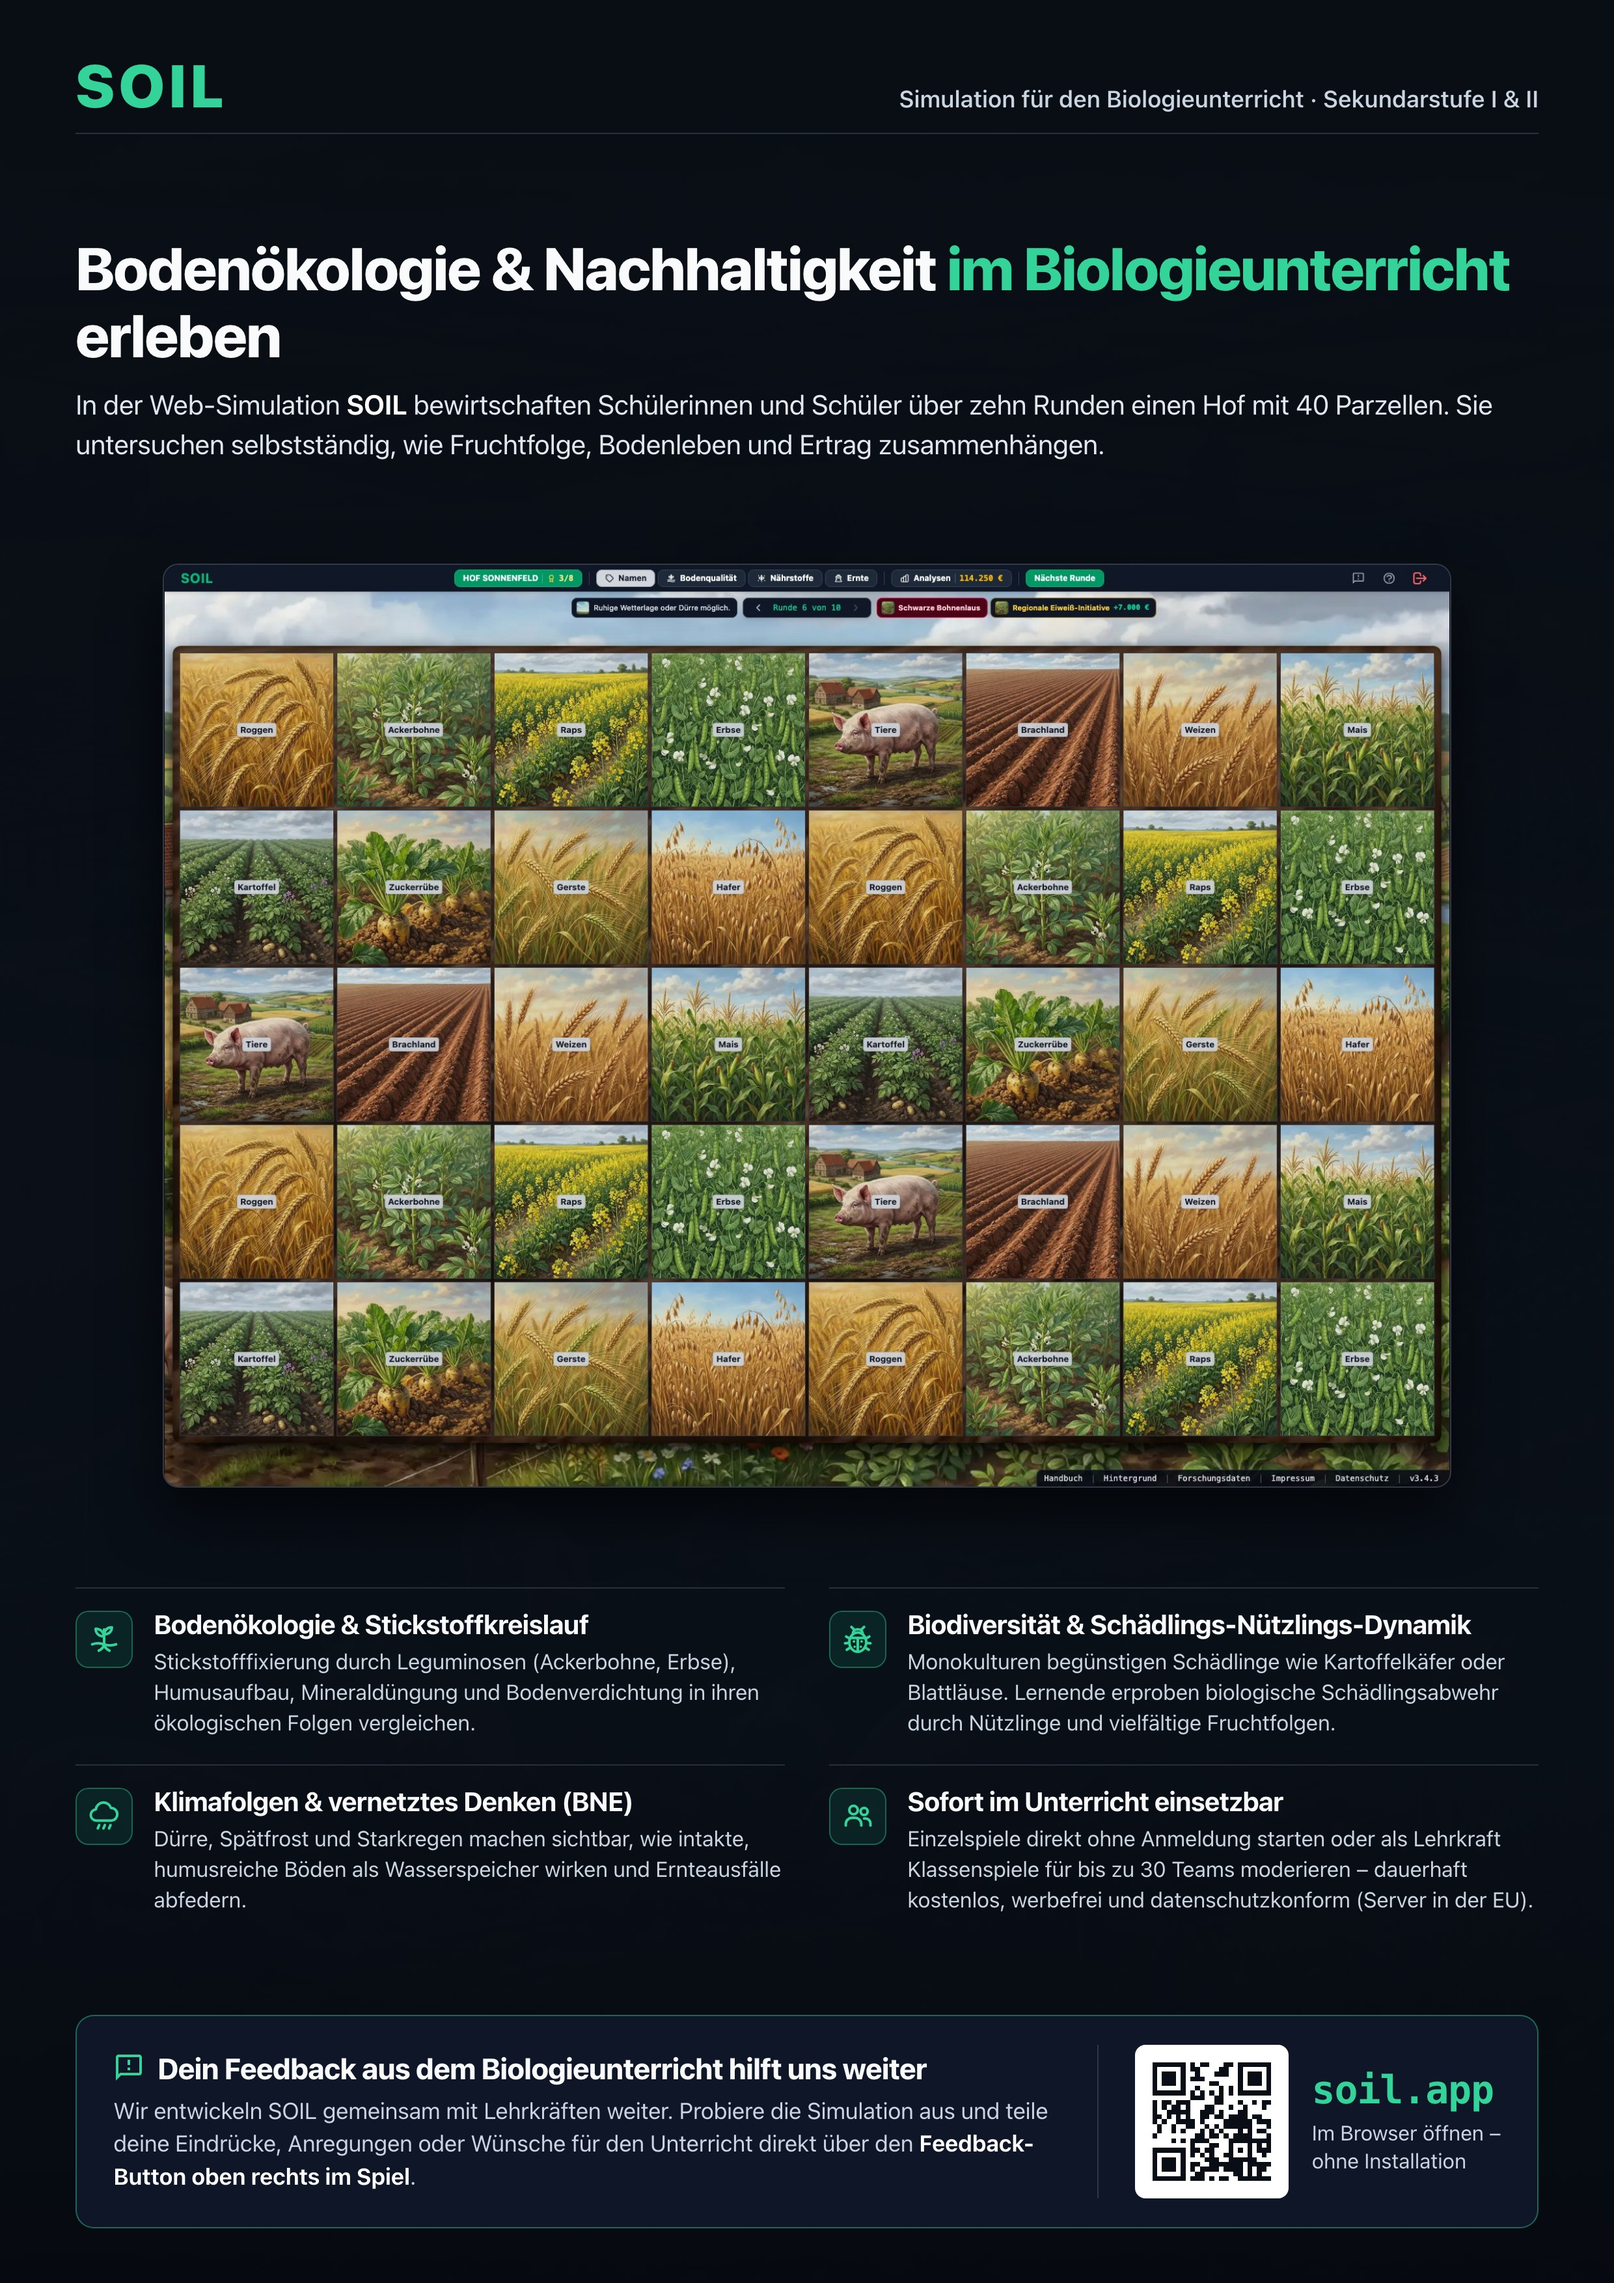
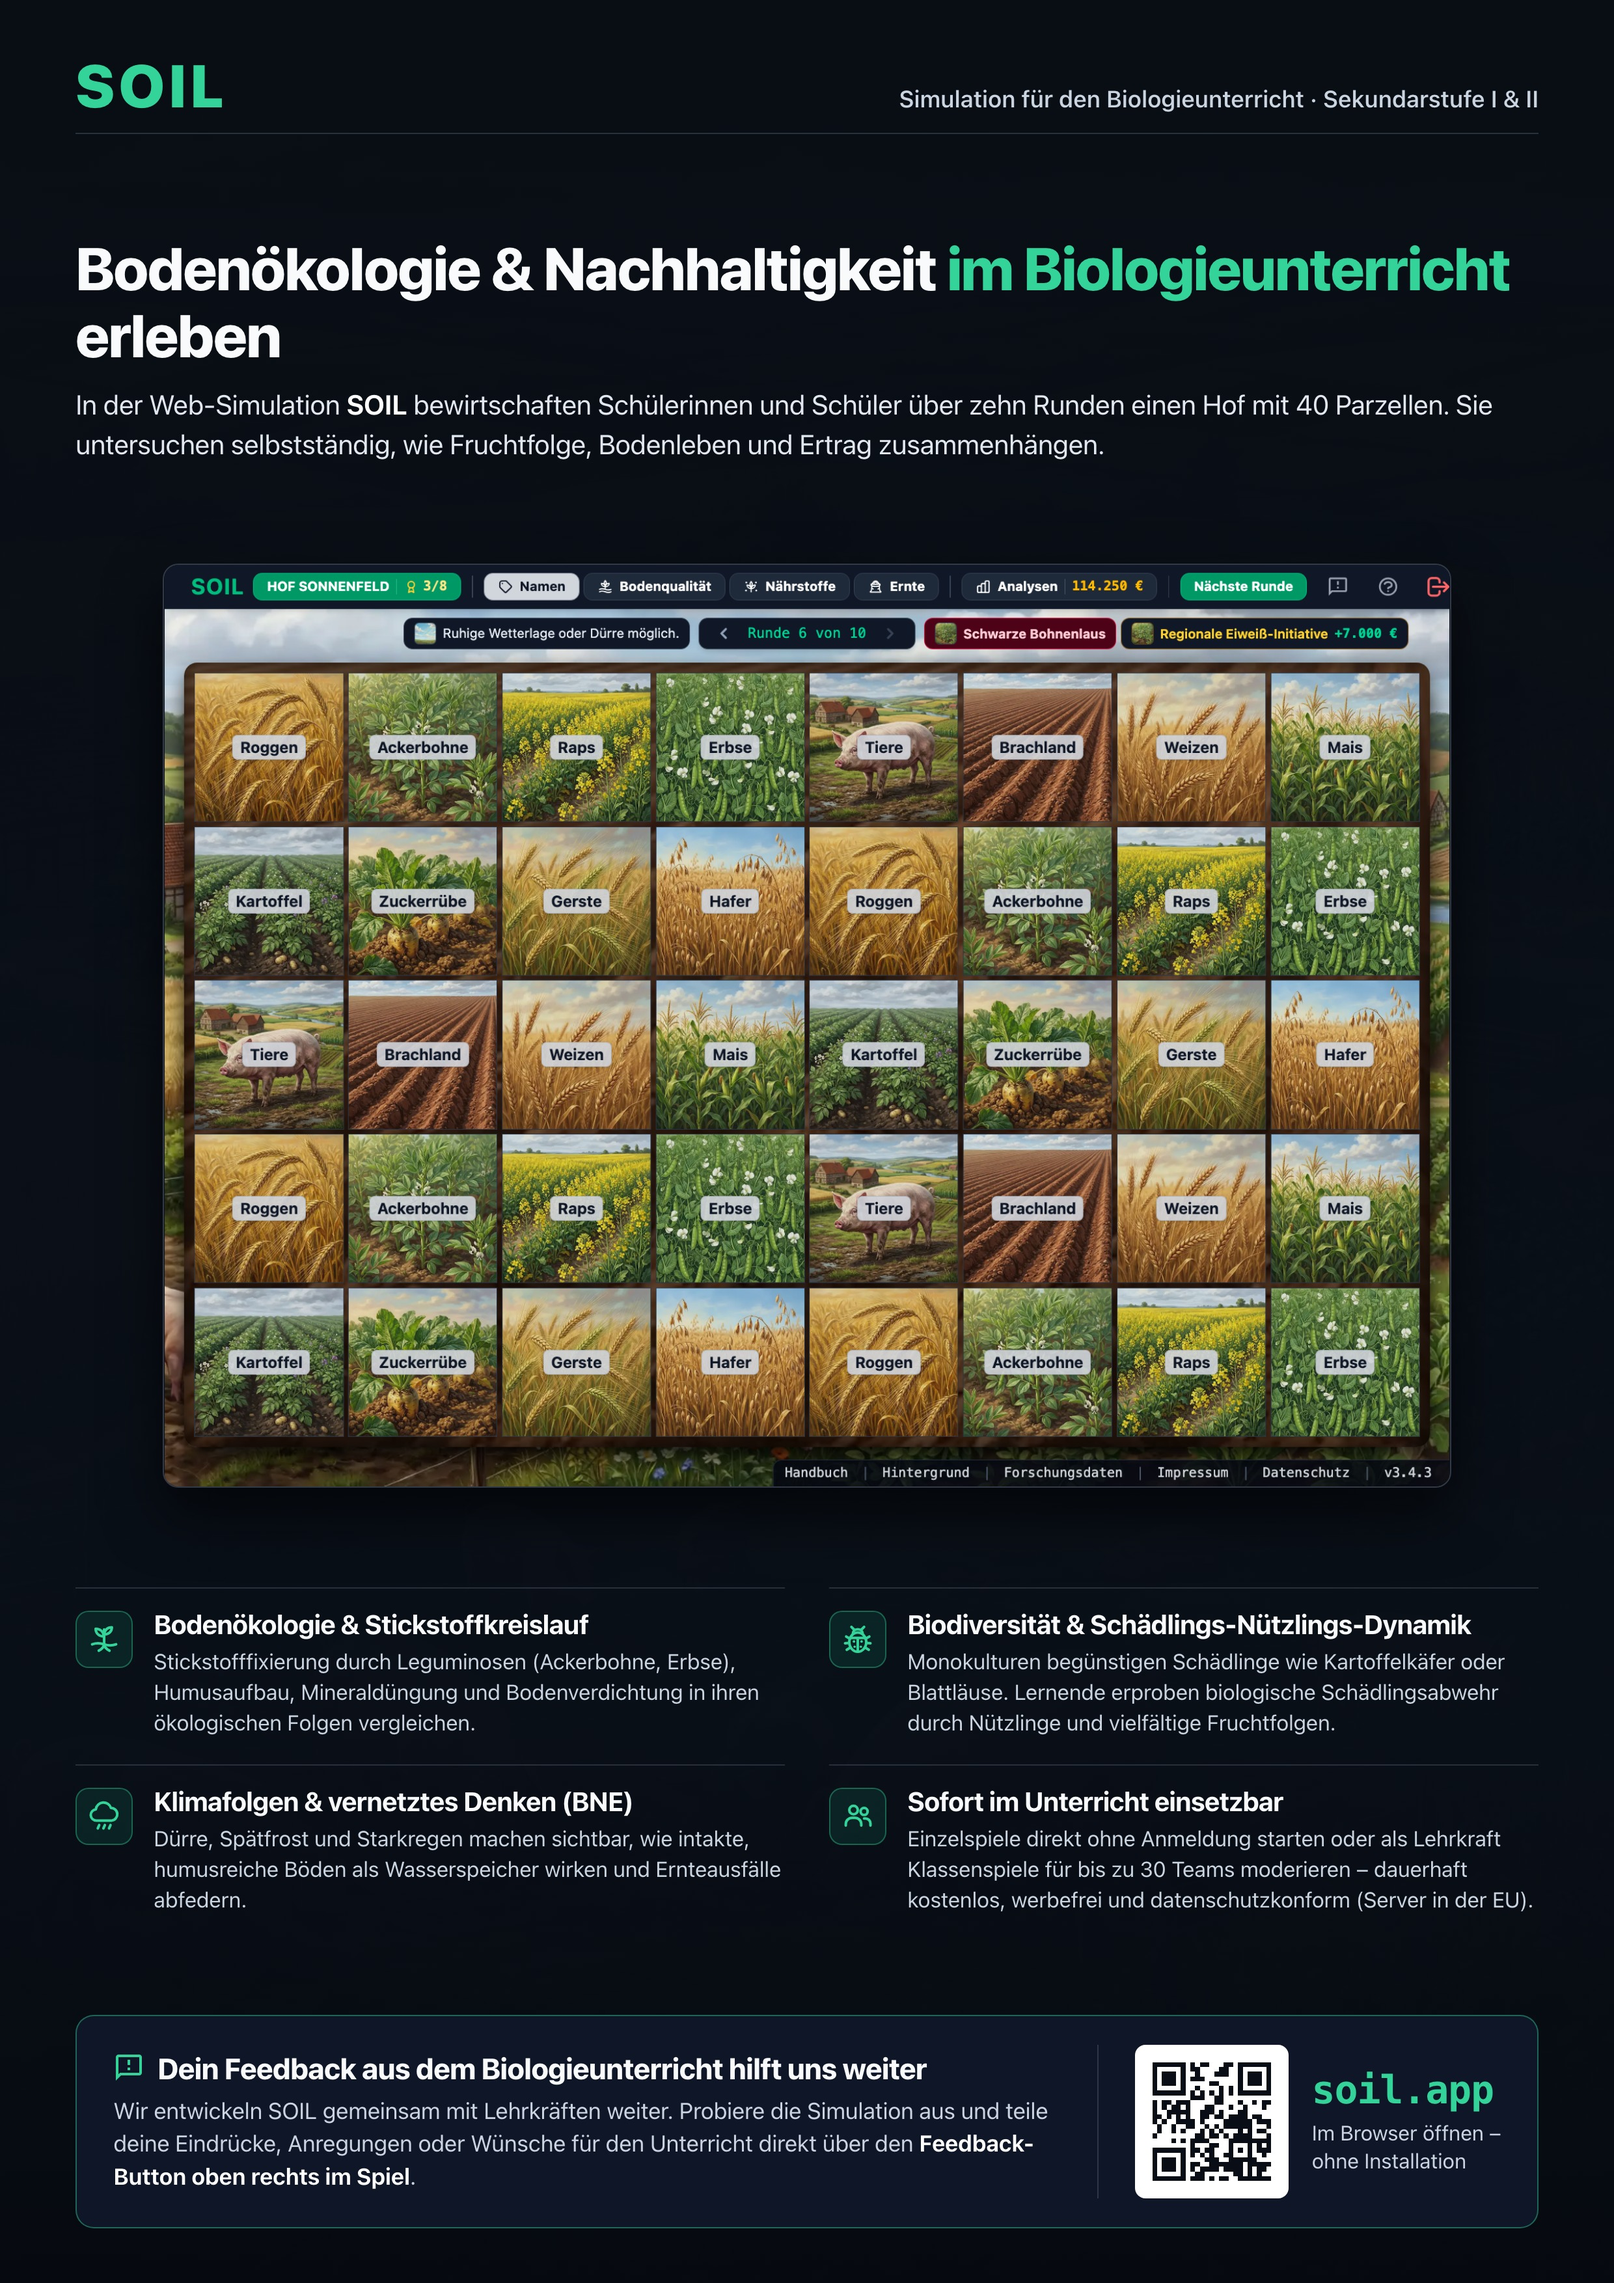
feat(marketing): switch screenshot to lossless PNG with larger UI text and update A4 flyers

Changed region(s): [[0.0931, 0.2486, 0.9004, 0.6525]]

diff --git a/src/index.html b/src/index.html
@@ -25,7 +25,7 @@
       content="SOIL ist ein kostenloses Serious Game und Simulationsspiel für Bildung für nachhaltige Entwicklung (BNE), Biologie, Geographie und Wirtschaft. Lernende steuern über zehn Runden Fruchtfolge, Düngung, Pflanzenschutz und Finanzen eines Bauernhofs."
     />
     <meta property="og:url" content="https://soil.app/" />
-    <meta property="og:image" content="https://soil.app/SOIL-screenshot.jpg" />
+    <meta property="og:image" content="https://soil.app/SOIL-screenshot.png" />
     <meta property="og:type" content="website" />
     <meta property="og:locale" content="de_DE" />
     <meta name="twitter:card" content="summary_large_image" />
@@ -37,7 +37,7 @@
       name="twitter:description"
       content="SOIL ist ein kostenloses Serious Game und Simulationsspiel für Bildung für nachhaltige Entwicklung (BNE), Biologie, Geographie und Wirtschaft. Lernende steuern über zehn Runden Fruchtfolge, Düngung, Pflanzenschutz und Finanzen eines Bauernhofs."
     />
-    <meta name="twitter:image" content="https://soil.app/SOIL-screenshot.jpg" />
+    <meta name="twitter:image" content="https://soil.app/SOIL-screenshot.png" />
     <link rel="icon" type="image/png" href="/favicon-96x96.png" sizes="96x96" />
     <link rel="icon" type="image/svg+xml" href="/favicon.svg" />
     <link rel="shortcut icon" href="/favicon.ico" />

diff --git a/src/server.ts b/src/server.ts
@@ -215,7 +215,7 @@ app.get('/sitemap.xml', (_req, res) => {
     <lastmod>2026-11-01</lastmod>
     <priority>1.0</priority>
     <video:video>
-      <video:thumbnail_loc>https://soil.app/SOIL-screenshot.jpg</video:thumbnail_loc>
+      <video:thumbnail_loc>https://soil.app/SOIL-screenshot.png</video:thumbnail_loc>
       <video:title>SOIL – Das interaktive Planspiel zu Landwirtschaft, Bodenfruchtbarkeit &amp; Nachhaltigkeit</video:title>
       <video:description>Vierzig Felder, 100.000 € Startkapital und zehn Jahre Zeit: Übernimm deinen eigenen Hof in der interaktiven Landwirtschaftssimulation SOIL für Unterricht (BNE, Biologie, Geographie, Wirtschaft), Studium und Selbstlernende.</video:description>
       <video:content_loc>https://soil.app/assets/video/soil-trailer.mp4</video:content_loc>

diff --git a/src/app/app.routes.ts b/src/app/app.routes.ts
@@ -53,7 +53,7 @@ const baseRoutes: Routes = [
               name: 'SOIL – Interaktive Simulation über Landwirtschaft, Ökonomie und Nachhaltigkeit',
               description:
                 'Einminütiger Überblick über die interaktive Landwirtschaftssimulation SOIL für BNE, Biologie, Geographie und Wirtschaft.',
-              thumbnailUrl: 'https://soil.app/SOIL-screenshot.jpg',
+              thumbnailUrl: 'https://soil.app/SOIL-screenshot.png',
               uploadDate: '2026-10-30T14:00:00+01:00',
               duration: 'PT1M5S',
               contentUrl: 'https://soil.app/assets/video/soil-trailer.mp4',

diff --git a/marketing/flyer-dark.html b/marketing/flyer-dark.html
@@ -294,7 +294,7 @@
 
       <!-- 3. Clean Screenshot Presentation -->
       <section class="screenshot-frame">
-        <img src="/SOIL-screenshot.jpg" alt="SOIL Spielbrett in Runde 6" />
+        <img src="/SOIL-screenshot.png" alt="SOIL Spielbrett in Runde 6" />
       </section>
 
       <!-- 4. Calm 2x2 Editorial Grid -->

diff --git a/marketing/flyer-light.html b/marketing/flyer-light.html
@@ -268,7 +268,7 @@
 
       <!-- 3. Clean Screenshot Presentation -->
       <section class="screenshot-frame">
-        <img src="/SOIL-screenshot.jpg" alt="SOIL Spielbrett in Runde 6" />
+        <img src="/SOIL-screenshot.png" alt="SOIL Spielbrett in Runde 6" />
       </section>
 
       <!-- 4. Calm 2x2 Editorial Grid -->

diff --git a/src/app/landing/landing.html b/src/app/landing/landing.html
@@ -231,7 +231,7 @@
         autoplay
         playsinline
         preload="auto"
-        poster="/SOIL-screenshot.jpg"
+        poster="/SOIL-screenshot.png"
         (ended)="closeTrailer()"
         class="w-full h-full object-contain bg-black"
       >

diff --git a/CHANGELOG.md b/CHANGELOG.md
@@ -4,7 +4,7 @@ All notable changes to this project will be documented in this file.
 
 ## [Unpublished]
 ### Added
-- Refreshed `public/SOIL-screenshot.jpg` (`1920x1377` px, `v3.4.3`) and added print-ready DIN A4 biology classroom flyers (dark and light print-friendly variants at `2480x3508` px, 300 DPI) along with automated capture/rendering templates and scripts in `marketing/` (`marketing/flyer-dark.html`, `marketing/flyer-light.html`, `marketing/generate-flyer.mjs`, `marketing/capture-screenshot.mjs`).
+- Replaced `public/SOIL-screenshot.jpg` with a lossless `public/SOIL-screenshot.png` (`1920x1377` px, `v3.4.3`, enlarged UI and parcel label typography) across `public/site.webmanifest`, OpenGraph/Twitter meta tags (`src/index.html`), trailer poster (`src/app/landing/landing.html`), and video sitemap metadata (`src/app/app.routes.ts`, `src/server.ts`, `public/sitemap.xml`), and added print-ready DIN A4 biology classroom flyers (dark and light print-friendly variants at `2480x3508` px, 300 DPI) along with automated capture/rendering templates and scripts in `marketing/` (`marketing/flyer-dark.html`, `marketing/flyer-light.html`, `marketing/generate-flyer.mjs`, `marketing/capture-screenshot.mjs`).
 
 ## [3.4.3] - 2026-11-01
 ### Fixed

diff --git a/marketing/README.md b/marketing/README.md
@@ -9,7 +9,7 @@ Dieser Ordner enthält die Vorlagen, Generator-Skripte und druckfertigen **DIN-A
 - `flyer-light.html` — HTML/CSS-Vorlage der hellen Druckvariante
 - `flyer-dark.html` — HTML/CSS-Vorlage der dunklen Variante
 - `generate-flyer.mjs` — Rendert beide Flyer-Varianten via Headless Chrome (`2480 × 3508 px`)
-- `capture-screenshot.mjs` — Nimmt `public/SOIL-screenshot.jpg` (`1920 × 1377 px`) automatisiert aus dem aktuellen Produktions-Build (`dist/soil/browser`) neu auf
+- `capture-screenshot.mjs` — Nimmt `public/SOIL-screenshot.png` (`1920 × 1377 px`, verlustfrei) automatisiert aus dem aktuellen Produktions-Build (`dist/soil/browser`) neu auf
 
 ## Screenshot & Flyer aktualisieren
 
@@ -25,6 +25,6 @@ Dieser Ordner enthält die Vorlagen, Generator-Skripte und druckfertigen **DIN-A
    ```
    Optional kann ein eigener Screenshot übergeben werden:
    ```bash
-   node marketing/generate-flyer.mjs --screenshot=/pfad/zum/screenshot.jpg
+   node marketing/generate-flyer.mjs --screenshot=/pfad/zum/screenshot.png
    ```
 
